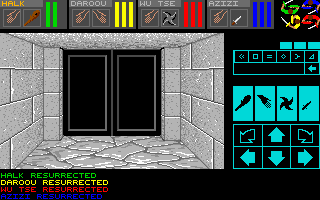
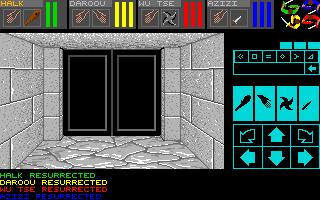
Glyphs start at the pen, five pixels wide

diff --git a/src/renderer/csbwin/TextRenderer.ts b/src/renderer/csbwin/TextRenderer.ts
@@ -5,6 +5,13 @@ const FONT_GRAPHIC_INDEX = 0x22d;
 const FONT_ROW_COUNT = 6;
 const FONT_ROW_STRIDE = 128;
 const FONT_CHAR_ADVANCE = 6;
+/**
+ * A glyph is five pixels wide, font bits 4..0, and starts at the pen: `BltOneChar` shifts
+ * the byte by `11-D3W` so bit 4 lands on pixel `x` (`doc/CSBwin-src/Graphics.cpp:218`),
+ * and `TextOut_OneLine`'s mask `0x07ff07ff >> D3W` (`Graphics.cpp:341`) clears those five
+ * pixels only, leaving the sixth, the gap to the next character, as it was.
+ */
+const FONT_GLYPH_WIDTH = 5;
 
 export interface FontData {
   bytes: Uint8Array;
@@ -68,7 +75,7 @@ function drawTextLineIndexInternal(
         const py = startY + row;
         if (py < 0 || py >= height) continue;
         const rowOff = py * width;
-        for (let col = 0; col < FONT_CHAR_ADVANCE; col++) {
+        for (let col = 0; col < FONT_GLYPH_WIDTH; col++) {
           const px = cursorX + col;
           if (px < 0 || px >= width) continue;
           dst.pixels[rowOff + px] = bg;
@@ -81,8 +88,8 @@ function drawTextLineIndexInternal(
       const py = startY + row;
       if (py < 0 || py >= height) continue;
       const rowOff = py * width;
-      for (let col = 0; col < FONT_CHAR_ADVANCE; col++) {
-        const bitIndex = FONT_CHAR_ADVANCE - 1 - col;
+      for (let col = 0; col < FONT_GLYPH_WIDTH; col++) {
+        const bitIndex = FONT_GLYPH_WIDTH - 1 - col;
         if (((rowByte >> bitIndex) & 0x1) === 0) continue;
         const px = cursorX + col;
         if (px < 0 || px >= width) continue;

diff --git a/tools/dump-show-credits.ts b/tools/dump-show-credits.ts
@@ -479,10 +479,10 @@ async function checkRestart(): Promise<void> {
 /* ------------------------------------------------------ 4. the won game ---- */
 
 /** Pixels of `color` in the text box whose baseline is `y`, `length` glyphs from `x`. */
-function inkIn(pixels: Uint8Array, x: number, y: number, length: number, color: number): number {
+function inkIn(pixels: Uint8Array, x: number, y: number, length: number, color: number, width = 6 * length): number {
   let n = 0;
   for (let py = y - 4; py < y + 2; py++) {
-    for (let px = x; px < x + 6 * length; px++) if (pixels[py * SCREEN_WIDTH + px] === color) n++;
+    for (let px = x; px < x + width; px++) if (pixels[py * SCREEN_WIDTH + px] === color) n++;
   }
   return n;
 }
@@ -585,7 +585,7 @@ async function checkWon(): Promise<void> {
     check(n > 0, `${text} is printed at (${x},${y}) in colour ${color}`);
   }
   check(inkIn(pixels, 105, 47, 17, 13) === 0 && inkIn(pixels, 105, 79, 17, 13) === 0, 'and no fourth mastery line: mastery 1 is left out');
-  check(inkIn(pixels, 87 + 24, 14, 1, 9) === 0, 'nor anything in the 5 pixels after ALEX');
+  check(inkIn(pixels, 87 + 24, 14, 1, 9, 5) === 0, 'nor anything in the 5 pixels after ALEX');
 }
 
 /* ------------------------------------------------------- 5. the CSB win ---- */

diff --git a/doc/CSBWIN_UI_REFERENCE.md b/doc/CSBWIN_UI_REFERENCE.md
@@ -60,6 +60,7 @@ This document lists UI rendering facts that are directly visible in the CSBWin C
 - `TextOutToScreen` renders through `TextOut_OneLine` into `d.LogicalScreenBase` with a width of 160 bytes (320 pixels) (`doc/CSBwin-src/CSBCode.cpp:1757`).
 - The font data is loaded from graphic `0x822d` into `d.Pointer12926` (`doc/CSBwin-src/CSBCode.cpp:1776`).
 - `TextOut_OneLine` advances characters in 6-pixel steps and uses `x` modulo 16-bit alignment logic (`doc/CSBwin-src/Graphics.cpp:321`, `doc/CSBwin-src/Graphics.cpp:346`).
+- A glyph is 5 pixels wide, the font's bits 4..0, and starts at the pen: `BltOneChar` shifts the byte left by `11-D3W`, so bit 4 lands on pixel `x` and bit 0 on `x+4` (`doc/CSBwin-src/Graphics.cpp:218`). The font never sets bit 5. The mask `0x07ff07ff >> D3W` clears the same five pixels only (`doc/CSBwin-src/Graphics.cpp:341`), so a background colour fills `x..x+4` and the sixth pixel of the cell, the gap before the next character, keeps what was under it.
 - The scrolling text system places lines at `x = PrintColumn * 6`, `y = PrintRow * 7 + 177` (commented but still authoritative for spacing) (`doc/CSBwin-src/CSBCode.cpp:1622`).
 
 ## Icon grid (hands, backpack, chest)
